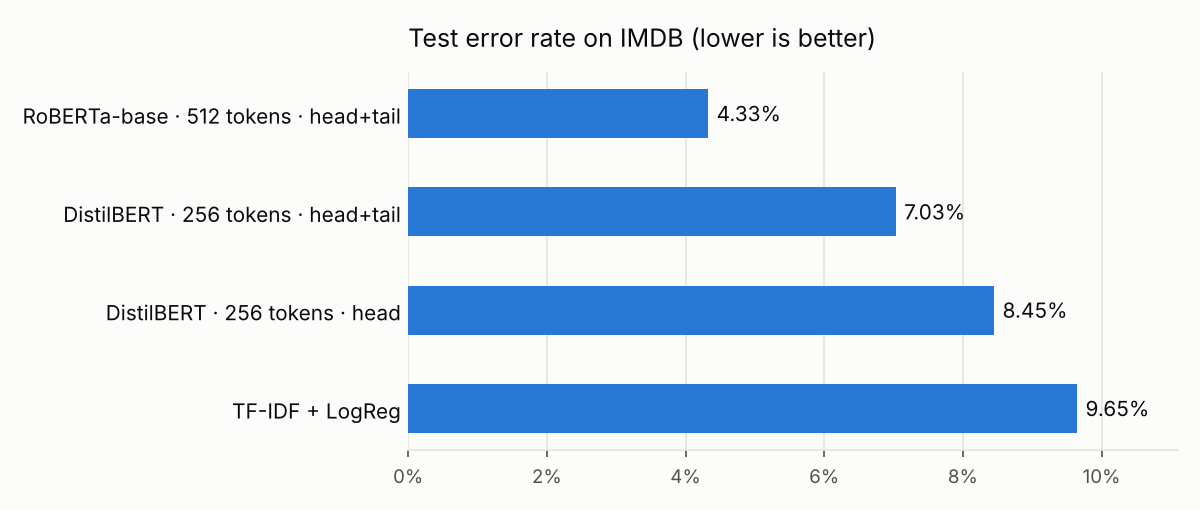
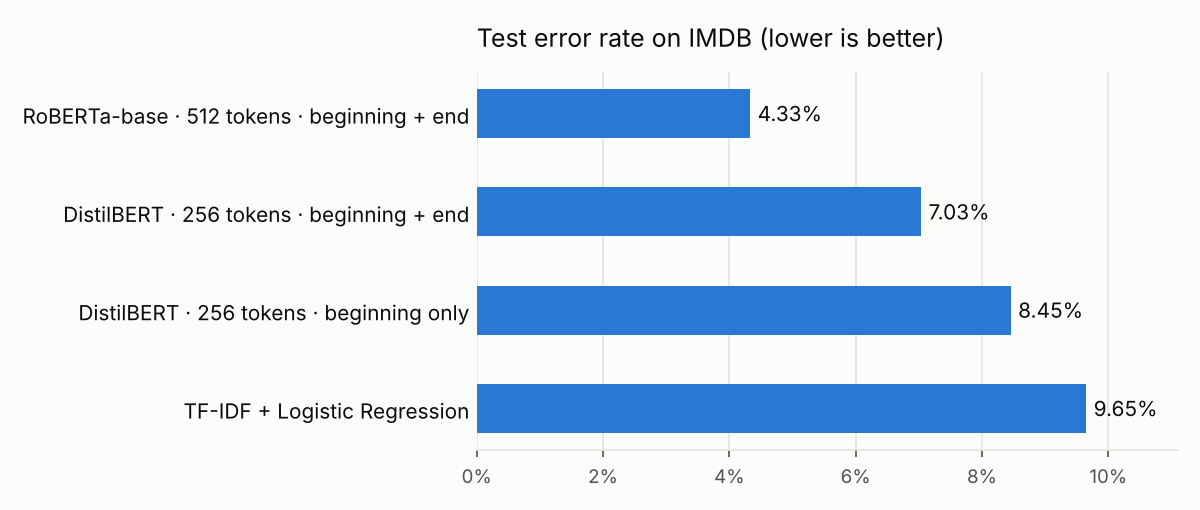
Rewrite README in plain formal English and use clearer chart labels

diff --git a/src/evaluate.py b/src/evaluate.py
@@ -25,12 +25,14 @@ from src.data import LABELS
 SURFACE, SERIES, TEXT, TEXT_MUTED, GRID = "#fcfcfb", "#2a78d6", "#0b0b0b", "#52514e", "#e4e3df"
 
 MODEL_NAMES = {
-    "TF-IDF + LogisticRegression": "TF-IDF + LogReg",
+    "TF-IDF + LogisticRegression": "TF-IDF + Logistic Regression",
     "distilbert-base-uncased": "DistilBERT",
     "bert-base-uncased": "BERT-base",
     "roberta-base": "RoBERTa-base",
     "roberta-large": "RoBERTa-large",
 }
+
+TRUNCATION_NAMES = {"head": "beginning only", "head_tail": "beginning + end"}
 
 TABLE_COLUMNS = [
     ("run_name", "Run"),
@@ -65,7 +67,7 @@ def load_runs(results_dir: str) -> list[dict]:
 def display_name(run: dict) -> str:
     name = MODEL_NAMES.get(run.get("model"), run["run_name"])
     if "max_length" in run:
-        truncation = run.get("truncation", "head").replace("head_tail", "head+tail")
+        truncation = TRUNCATION_NAMES.get(run.get("truncation", "head"), run.get("truncation"))
         name += f" · {run['max_length']} tokens · {truncation}"
     return name
 

diff --git a/README.md b/README.md
@@ -4,16 +4,17 @@
 ![Python](https://img.shields.io/badge/python-3.10%2B-blue)
 ![PyTorch](https://img.shields.io/badge/PyTorch-Transformers-orange)
 
-Binary sentiment classification (positive / negative) of IMDB movie reviews, comparing a classical
-TF-IDF baseline with fine-tuned pretrained transformers (DistilBERT, RoBERTa).
+This project classifies IMDB movie reviews as positive or negative. It compares a traditional machine learning
+model (TF-IDF with logistic regression) with pretrained language models (DistilBERT and RoBERTa) that were
+fine-tuned on the same data.
 
-**Best model: RoBERTa-base, 95.67% accuracy on the 25,000-review test set, 55% fewer errors than the TF-IDF baseline.**
+**Best result: RoBERTa-base reached 95.67% accuracy on 25,000 test reviews and made 55% fewer errors than the traditional model.**
 
-The project looks past "fine-tune BERT, report accuracy" at three questions:
+The project aims to answer three questions:
 
-1. **Is a transformer worth it?** Accuracy against parameter count, training time and inference speed, measured against a well-tuned classical baseline.
-2. **Which part of a long review matters?** 41% of reviews are longer than 256 tokens. Keeping only the beginning (*head*) is compared with keeping the beginning and the end (*head+tail*, Sun et al., 2019).
-3. **Where does the model still fail?** Analysis of its most confident mistakes.
+1. **Is a pretrained language model worth the extra cost?** The models are compared on accuracy, model size, training time and prediction speed.
+2. **Which part of a long review should the model read?** The models can only read a limited number of tokens (words and word pieces), and 41% of the reviews are longer than 256 tokens. Two methods for shortening long reviews are compared: keeping only the beginning, and keeping both the beginning and the end (Sun et al., 2019).
+3. **What kinds of reviews does the best model still get wrong?** The model's most confident mistakes are examined by hand.
 
 <!-- Add once deployed: **Demo:** <Hugging Face Spaces link> · **Model:** <Hugging Face Hub link> -->
 
@@ -21,118 +22,134 @@ The project looks past "fine-tune BERT, report accuracy" at three questions:
 
 ![Test error rate per model](results/figures/model_comparison.png)
 
-| Model | Max tokens | Truncation | Accuracy | F1 | Errors (of 25k) | Params | Train time* | Inference* (reviews/s) |
+| Model | Max tokens | Shortening method | Accuracy | F1 score | Errors (of 25,000) | Parameters | Training time* | Reviews per second* |
 |---|---|---|---|---|---|---|---|---|
-| TF-IDF + LogReg | - | - | 90.35% | 90.37% | 2,412 | 0.2M | 13 s | 6,402 |
-| DistilBERT | 256 | head | 91.55% | 91.56% | 2,113 | 67M | 45 s | 3,677 |
-| DistilBERT | 256 | head+tail | 92.97% | 92.99% | 1,758 | 67M | 44 s | 3,672 |
-| **RoBERTa-base** | **512** | **head+tail** | **95.67%** | **95.68%** | **1,082** | **125M** | **150 s** | **1,210** |
+| TF-IDF + Logistic Regression | - | - | 90.35% | 90.37% | 2,412 | 0.2M | 13 s | 6,402 |
+| DistilBERT | 256 | Beginning only | 91.55% | 91.56% | 2,113 | 67M | 45 s | 3,677 |
+| DistilBERT | 256 | Beginning + end | 92.97% | 92.99% | 1,758 | 67M | 44 s | 3,672 |
+| **RoBERTa-base** | **512** | **Beginning + end** | **95.67%** | **95.68%** | **1,082** | **125M** | **150 s** | **1,210** |
 
-<sub>*Transformers trained for 2 epochs on an NVIDIA RTX PRO 6000 (Blackwell) GPU. TF-IDF trained and evaluated on CPU, time is for one fit. Single run per configuration, seed 42.</sub>
+<sub>*DistilBERT and RoBERTa were trained for 2 epochs on an NVIDIA RTX PRO 6000 (Blackwell) GPU. The TF-IDF model was trained and tested on a CPU. Each setup was trained once, with random seed 42.</sub>
 
 ### Key findings
 
-- **Head+tail truncation is a free accuracy gain.** With the same model, token budget and training time, keeping the start *and the end* of long reviews raised DistilBERT from 91.55% to 92.97% accuracy and cut errors by 17% (2,113 → 1,758). Reviewers often state their verdict in the last few sentences, and plain truncation throws exactly that away for the 41% of reviews longer than 256 tokens.
-- **A tuned TF-IDF baseline is hard to beat.** At 90.35% it is only 1.2 points behind DistilBERT with naive truncation, while being far smaller and faster. A transformer only pays off clearly when it gets enough context.
-- **RoBERTa with 512 tokens is the clear winner.** 95.67% accuracy and 55% fewer errors than TF-IDF, at the cost of nearly 2× the parameters of DistilBERT and 3× slower inference. Its mistakes are balanced (560 false positives, 522 false negatives), so it is not biased toward either class.
-- **Many of the remaining "errors" are not model errors.** Among RoBERTa's most confident mistakes (see below), several reviews disagree with their own label or rely on sarcasm, which puts a soft ceiling on achievable accuracy.
+- **Keeping the end of long reviews improves accuracy at no extra cost.** With the same model, the same token limit and the same training time, keeping both the beginning and the end of each long review increased DistilBERT's accuracy from 91.55% to 92.97% and reduced errors by 17% (from 2,113 to 1,758). Reviewers often give their final opinion in the last sentences, and this part is lost when only the beginning is kept.
+- **The traditional model is a strong baseline.** TF-IDF with logistic regression reached 90.35% accuracy, only 1.2 percentage points below DistilBERT when DistilBERT read only the beginning of each review. It is also much smaller and faster. The pretrained models show a clear advantage only when they can read enough of each review.
+- **RoBERTa with 512 tokens performed best.** It reached 95.67% accuracy and made 55% fewer errors than the traditional model. In exchange, it has almost twice as many parameters as DistilBERT and predicts about three times more slowly. Its errors are evenly split between the two classes (560 negative reviews predicted as positive, 522 positive reviews predicted as negative), so it does not favor either class.
+- **Some of the remaining errors are caused by the data, not by the model.** Several of RoBERTa's most confident mistakes are sarcastic reviews or reviews whose text does not match their label (see the error analysis below). This limits the highest accuracy that any model can reach on this dataset.
 
-### Data: review length
+### Review length
 
 ![Review length distribution](results/figures/length_distribution.png)
 
-The median review is 222 tokens and the mean 298, with a long tail up to 3,047. 41.3% of training reviews exceed 256 tokens and
-13.4% exceed 512. Both classes have nearly identical length distributions, so length alone carries no signal. Stats: [`results/eda_stats.json`](results/eda_stats.json).
+A typical review (the median) is 222 tokens long, and the average is 298 tokens. A small number of reviews are much
+longer, up to 3,047 tokens. 41.3% of the training reviews are longer than 256 tokens, and 13.4% are longer than 512
+tokens. Positive and negative reviews have almost the same length, so length alone does not indicate the sentiment.
+The full statistics are in [`results/eda_stats.json`](results/eda_stats.json).
 
 ### Error analysis
 
-The test reviews RoBERTa got wrong with ~99.9% confidence fall into a few recognizable groups
-(full reports in [`results/errors/`](results/errors/)):
+The reviews that RoBERTa misclassified with about 99.9% confidence fall into four groups. The full lists are in
+[`results/errors/`](results/errors/).
 
-| Pattern | Example (shortened) | Label → predicted |
+| Type of review | Example (shortened) | True label → prediction |
 |---|---|---|
 | **Sarcasm** | "This has to be one of the all time greatest horror movies … its not hard to see why Band went on to make such classics as 'Killjoy 2: Deliverance From Evil'" | negative → positive |
-| **"So bad it's good"** | "it had to be one of the worst movies ever. Funny, in a real bad way." | positive → negative |
-| **Mixed review** | "Do I say how great the cinematography is … the film is boring it moves so slow, that watching paint dry would be an improvement." | positive → negative |
-| **Text contradicts the label** | "I found 'Strange Fruit' to be an excellent movie … the acting (…) is wonderful, the cinematography and direction excellent" | negative → positive |
+| **Enjoyed because it is bad** | "it had to be one of the worst movies ever. Funny, in a real bad way." | positive → negative |
+| **Mixed opinion** | "Do I say how great the cinematography is … the film is boring it moves so slow, that watching paint dry would be an improvement." | positive → negative |
+| **Text does not match the label** | "I found 'Strange Fruit' to be an excellent movie … the acting (…) is wonderful, the cinematography and direction excellent" | negative → positive |
 
-IMDB labels come from the reviewer's star rating (≤4 negative, ≥7 positive), not from the text. When the rating and the
-words disagree, the model follows the words, which is arguably the correct behavior for a sentiment classifier.
+The IMDB labels are based on the star rating that each reviewer gave (4 stars or fewer is negative, 7 stars or more is
+positive), not on the text itself. When the rating and the text disagree, the model follows the text. For a model whose
+purpose is to read the opinion in a text, this is reasonable behavior.
+
+The confusion matrices below show how many reviews of each class were classified correctly and incorrectly, for the
+traditional model (left) and for RoBERTa (right).
 
 <p align="center">
   <img src="results/figures/tfidf-logreg_confusion.png" width="45%" alt="TF-IDF confusion matrix">
   <img src="results/figures/roberta-base-512-head_tail_confusion.png" width="45%" alt="RoBERTa confusion matrix">
 </p>
 
-## Approach
+## Method
 
-**Data.** [`stanfordnlp/imdb`](https://huggingface.co/datasets/stanfordnlp/imdb) has 25k train and 25k test reviews, balanced 50/50.
-A stratified 10% of the training set (2,500 reviews) is held out for validation and model selection, so the test set is only
-used for the final numbers. `<br />` tags are stripped.
+**Data.** The [IMDB dataset](https://huggingface.co/datasets/stanfordnlp/imdb) contains 25,000 training reviews and
+25,000 test reviews, with equal numbers of positive and negative reviews. 10% of the training reviews (2,500) were set
+aside as a validation set, with the same balance of positive and negative reviews. The validation set was used to choose
+the best settings, and the test set was used only once, for the final results. HTML line breaks (`<br />`) were removed
+from the text.
 
-**Baseline.** TF-IDF on word uni- and bigrams (200k features, sublinear TF), plus logistic regression. The regularization
-strength is tuned on the validation split (best: C = 4).
+**Traditional model.** Each review is converted into word and word-pair frequencies weighted by TF-IDF (up to 200,000
+features), and a logistic regression model is trained on these features. Several regularization strengths were tested
+on the validation set, and the best one (C = 4) was used.
 
-**Transformers.** Fine-tuned with the Hugging Face `Trainer`: AdamW, learning rate 2e-5, linear schedule with
-10% warmup, 2 epochs, mixed precision. The checkpoint with the best validation F1 is kept.
+**Pretrained language models.** DistilBERT and RoBERTa were fine-tuned with the Hugging Face `Trainer` for 2 epochs,
+with a learning rate of 2e-5. The learning rate increases gradually during the first 10% of training and then decreases
+linearly. After each epoch, the model was tested on the validation set, and the version with the best F1 score was kept.
 
-**Truncation.** With *head+tail*, a review that exceeds the token budget keeps its first 25% and last 75% of
-tokens, as recommended by Sun et al. (2019). The setting is saved with the model (`inference_config.json`) so
-prediction tokenizes the same way as training.
+**Shortening long reviews.** When a review is longer than the token limit, the "beginning + end" method keeps the first
+25% and the last 75% of the allowed tokens, as recommended by Sun et al. (2019). This setting is saved together with the
+model (`inference_config.json`), so new reviews are processed in the same way during prediction as during training.
 
-## Limitations and next steps
+## Limitations and future work
 
-- The RoBERTa run changes both the model and the context length, so its gain over DistilBERT can't be split between the two. A RoBERTa 512 *head* run would isolate the truncation effect at 512 tokens.
-- Each configuration was trained once. Repeating with several seeds would give confidence intervals for the smaller gaps.
-- Explainability (e.g. SHAP or integrated gradients) would show which words drive the sarcasm and "so bad it's good" mistakes.
-- Distilling RoBERTa into DistilBERT could recover part of the accuracy at DistilBERT's speed.
+- The RoBERTa experiment uses both a different model and a higher token limit than DistilBERT, so it is not possible to tell how much of the improvement comes from each change. Training RoBERTa with 512 tokens using only the beginning of each review would answer this.
+- Each setup was trained only once. Training several times with different random seeds would show whether the smaller differences between models are reliable.
+- Explanation methods such as SHAP could show which words lead the model to its mistakes on sarcastic and mixed reviews.
+- Knowledge distillation (training a smaller model to copy a larger one) could give DistilBERT part of RoBERTa's accuracy while keeping DistilBERT's speed.
 
 ## Project structure
 
 ```
 ├── src/
-│   ├── data.py        # loading, cleaning, head/head+tail truncation, tokenization
-│   ├── eda.py         # class balance, review length distribution
-│   ├── baseline.py    # TF-IDF + Logistic Regression
-│   ├── train.py       # transformer fine-tuning (any Hugging Face model)
+│   ├── data.py        # loads and cleans the data, shortens long reviews, converts text to tokens
+│   ├── eda.py         # data exploration: class balance and review length
+│   ├── baseline.py    # traditional model: TF-IDF + logistic regression
+│   ├── train.py       # fine-tunes a pretrained language model
 │   ├── evaluate.py    # comparison table and chart, confusion matrices, error reports
-│   ├── predict.py     # inference CLI / SentimentPredictor class
-│   └── metrics.py     # shared metrics and result files
-├── app/app.py         # Gradio demo
-├── notebooks/imdb_sentiment_colab.ipynb   # runs the whole pipeline on Colab
-├── tests/             # unit tests for cleaning and truncation
-└── results/           # metrics JSON, figures, error reports
+│   ├── predict.py     # predicts the sentiment of new reviews
+│   └── metrics.py     # shared evaluation metrics and result files
+├── app/app.py         # web demo built with Gradio
+├── notebooks/imdb_sentiment_colab.ipynb   # runs the full project on Google Colab
+├── tests/             # unit tests for text cleaning and review shortening
+└── results/           # metrics, charts and error reports
 ```
 
-## Quickstart
+## How to run
 
-The easiest way is the **Open in Colab** button above: select a GPU runtime, then **Runtime → Run all**. Locally:
+The easiest way is to click the **Open in Colab** button at the top of this page, select a GPU in
+**Runtime → Change runtime type**, and then choose **Runtime → Run all**.
+
+To run the project on your own computer:
 
 ```bash
 pip install -r requirements.txt
 
-python -m src.eda                                   # data analysis
-python -m src.baseline                              # TF-IDF baseline
+python -m src.eda                                   # explore the data
+python -m src.baseline                              # train the traditional model
 python -m src.train --model_name distilbert-base-uncased --max_length 256 --truncation head
 python -m src.train --model_name distilbert-base-uncased --max_length 256 --truncation head_tail
 python -m src.train --model_name roberta-base --max_length 512 --truncation head_tail --batch_size 8 --grad_accum 2
-python -m src.evaluate                              # comparison table + error analysis
+python -m src.evaluate                              # compare models and analyze errors
 
 python -m src.predict --model_dir models/roberta-base-512-head_tail "What a fantastic film!"
 MODEL_DIR=models/roberta-base-512-head_tail python app/app.py
 ```
 
-For a quick check that everything runs, add `--max_train_samples 500 --max_eval_samples 200 --epochs 1`.
-`python -m src.train --help` lists every option, including `--report_to wandb` for experiment tracking and
-`--hub_model_id` to push the model to the Hugging Face Hub.
+In the commands, `head` means keeping only the beginning of each review, and `head_tail` means keeping the beginning
+and the end.
 
-Run the tests with `pytest`.
+To quickly check that everything works before a full run, add `--max_train_samples 500 --max_eval_samples 200 --epochs 1`
+to the training command. Run `python -m src.train --help` to see all options, including `--report_to wandb` for
+tracking experiments and `--hub_model_id` for uploading the model to the Hugging Face Hub.
 
-## Deploying the demo
+To run the unit tests, use `pytest`.
 
-1. Push the trained model to the Hub (last section of the notebook, or `--hub_model_id`).
-2. Create a Gradio Space on Hugging Face and upload `app/app.py` as `app.py`, along with the `src/` folder and `requirements.txt`.
-3. In the Space settings, set the `MODEL_DIR` variable to your Hub repo id, for example `username/imdb-sentiment-roberta`.
+## Publishing the demo
+
+1. Upload the trained model to the Hugging Face Hub (see the last section of the notebook, or use `--hub_model_id`).
+2. Create a new Gradio Space on Hugging Face. Upload `app/app.py` as `app.py`, together with the `src/` folder and `requirements.txt`.
+3. In the Space settings, set the `MODEL_DIR` variable to the name of your model on the Hub, for example `username/imdb-sentiment-roberta`.
 
 ## References
 
